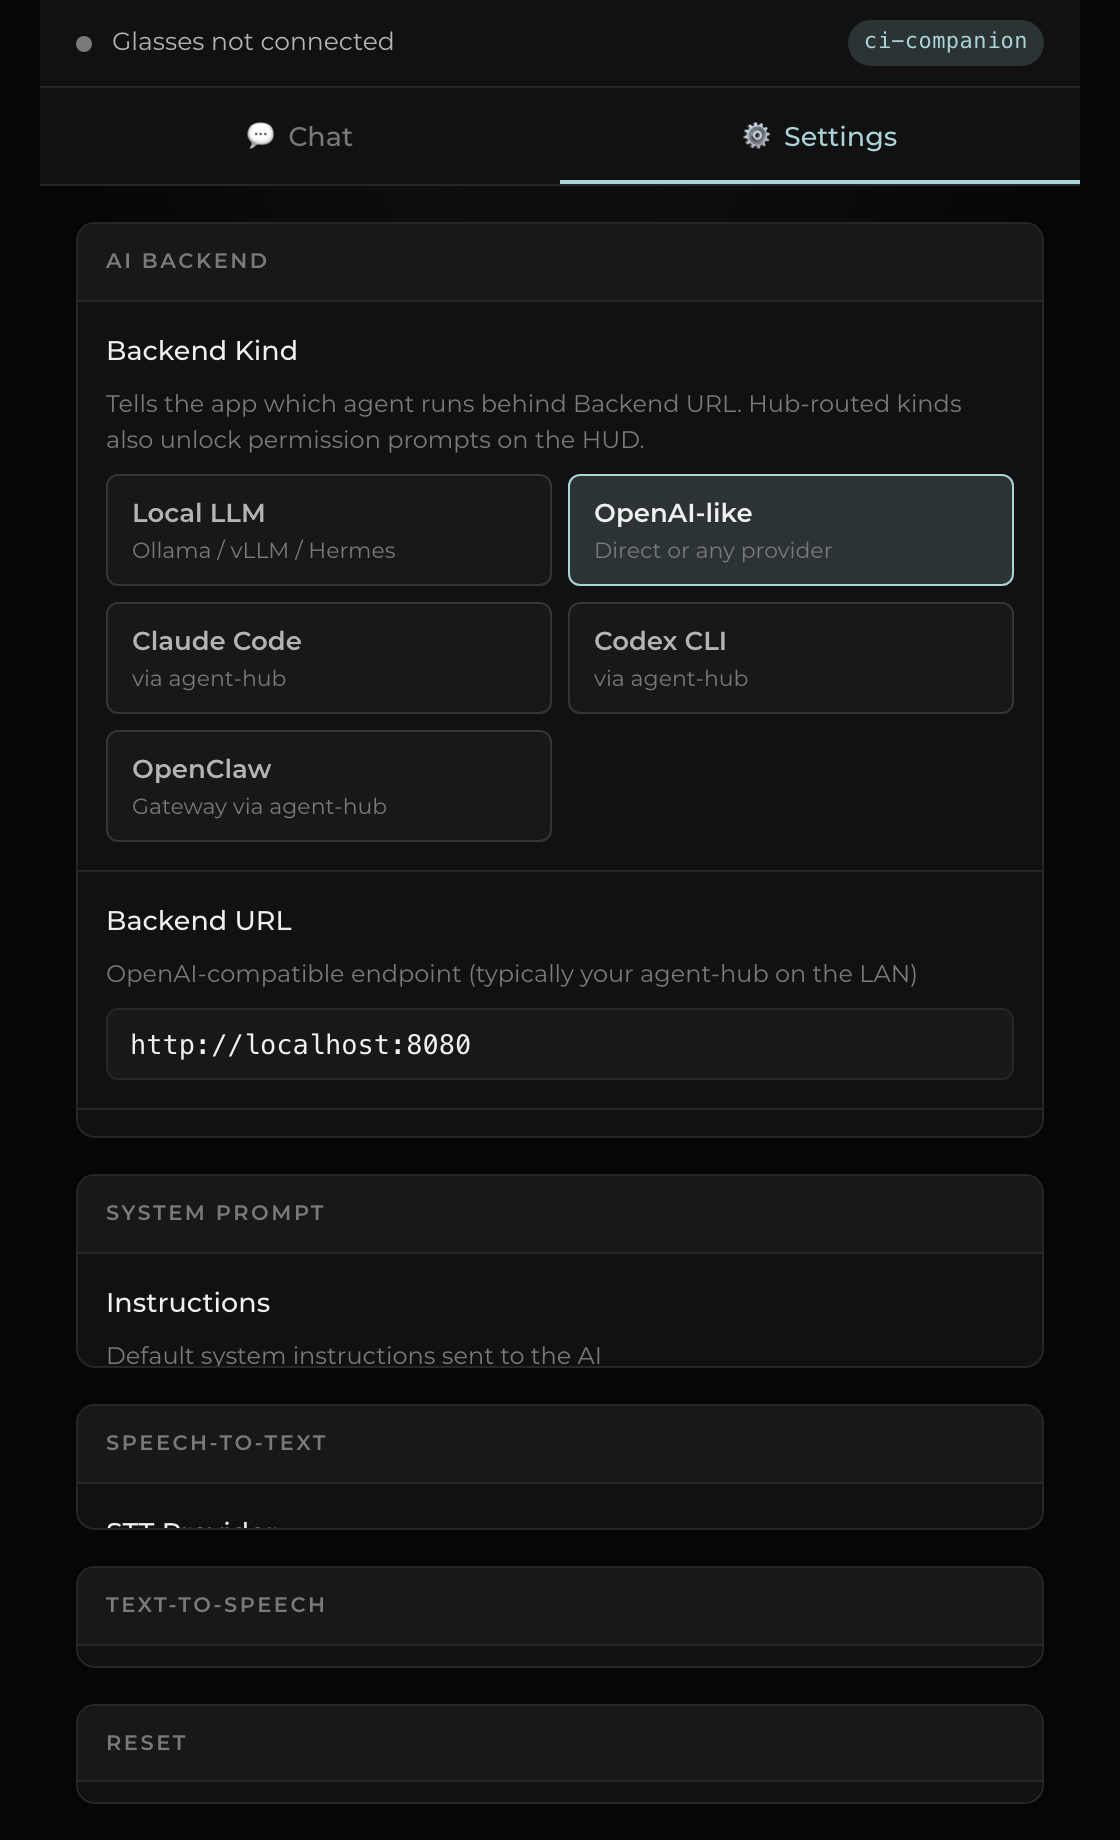
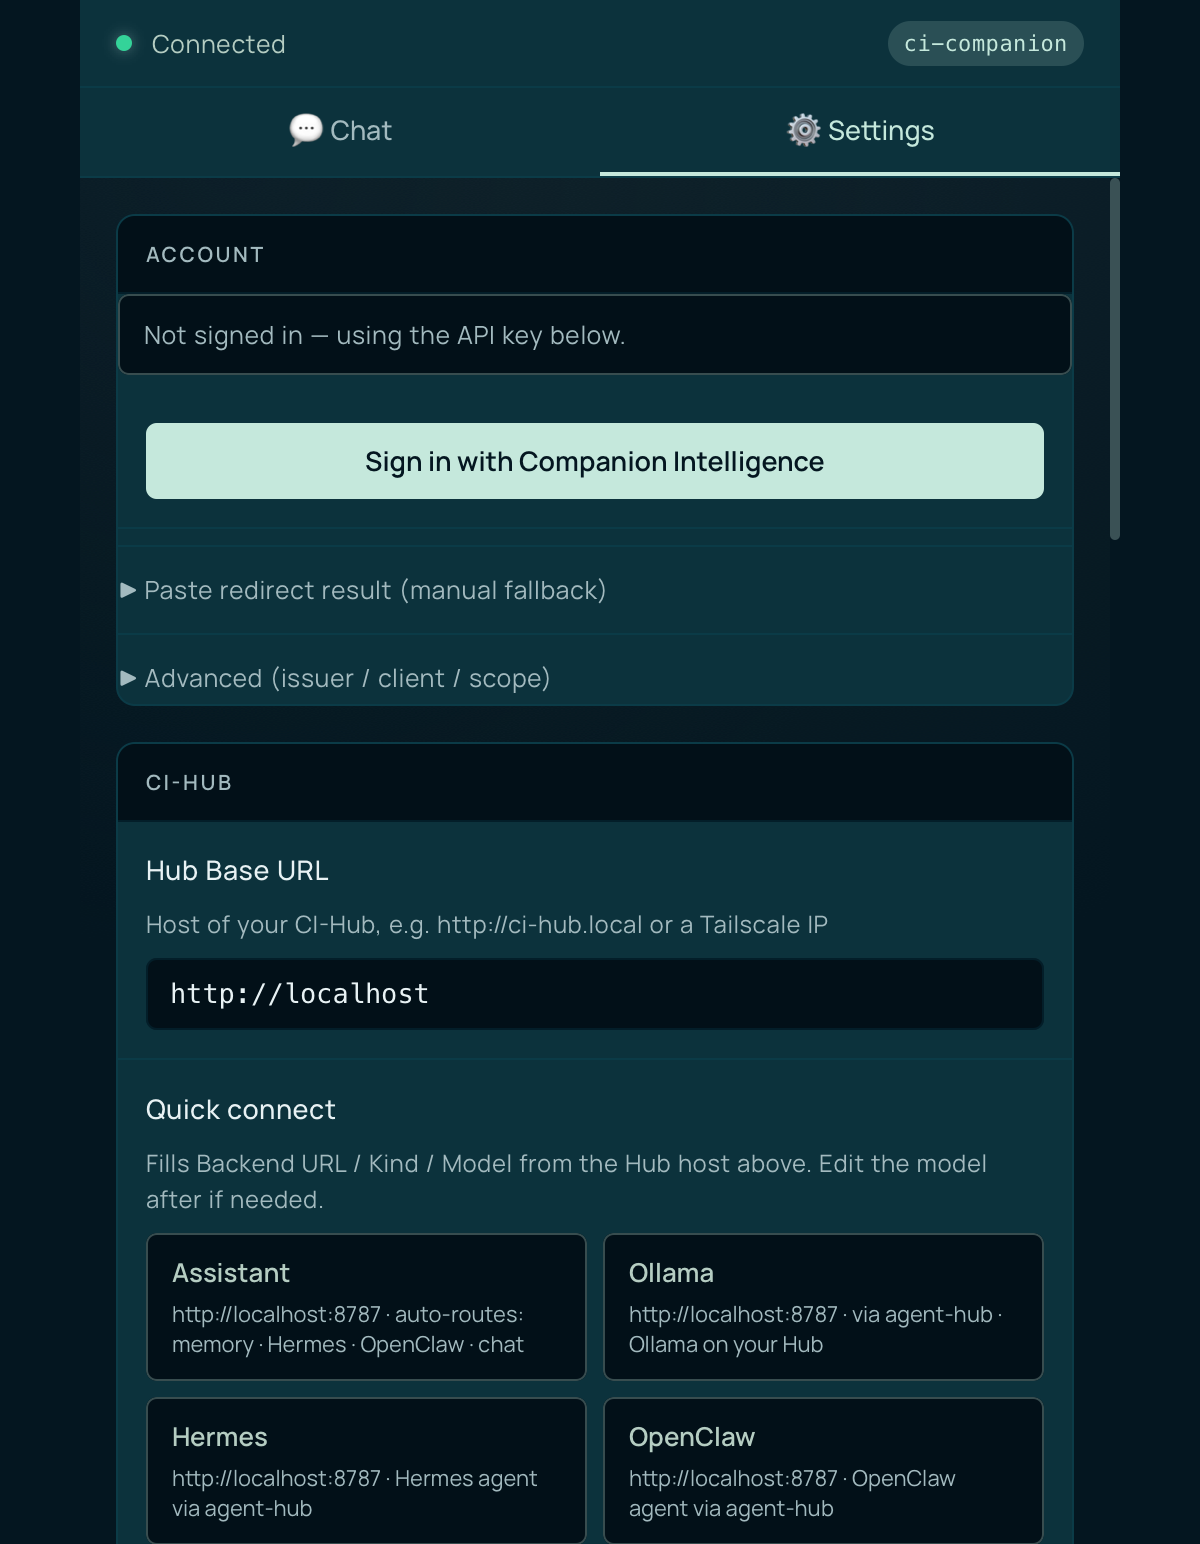
fix(er-connect): don't report a false "Unreachable" for plain-http hubs
The Connect step probes http://<host>:8787 from https://er.ci.computer, and
browsers refuse plain-http requests from an https page. Measured against the
live site with a server answering on every address: the same no-cors fetch
resolved from an http page and was rejected from er.ci.computer for a LAN IP,
127.0.0.1 and localhost alike. Non-loopback http hosts are no longer fetched;
the host is saved and the page says it cannot verify it from here and to use
Quick connect in the app. A loopback failure from an https page is treated
the same way; real failures (http page, https hub) still show as errors.

Also: Help gets a matching troubleshooting entry, the README documents an
end-to-end sign-in test and a failure table and no longer says the OIDC client
is unregistered (it is deployed), the bundled screenshots show the current
look, and the unreferenced near-black preview.png is removed.

diff --git a/er-connect/src/hub/connect.ts b/er-connect/src/hub/connect.ts
@@ -35,10 +35,43 @@ export function agentHubUrl(raw: string): string {
 export interface ProbeResult {
   ok: boolean;
   url: string;
+  /**
+   * True when a failure says nothing about the hub: the browser refuses (or gates)
+   * plain-http requests from an https page, so "couldn't fetch" ≠ "unreachable".
+   */
+  blocked?: boolean;
 }
 
-export async function probeHub(rawHost: string): Promise<ProbeResult> {
+const LOOPBACK = /^(localhost|127(\.\d{1,3}){3}|\[::1\])$/i;
+
+/** Is this a plain-http target being fetched from an https page? */
+export function isMixedContent(url: string, pageProtocol: string): boolean {
+  if (pageProtocol !== 'https:') return false;
+  try {
+    return new URL(url).protocol === 'http:';
+  } catch {
+    return false;
+  }
+}
+
+/**
+ * An agent-hub on a LAN / Tailscale / `.local` address is plain http on :8787, and browsers
+ * refuse plain-http requests from an https page (mixed content) — so from
+ * https://er.ci.computer "unreachable" and "reachable but forbidden" look identical.
+ * Measured 2026-09-28 against the live site with a server answering on every address: the
+ * same `fetch(..., {mode:'no-cors'})` resolved from an http page, and rejected from
+ * er.ci.computer for a LAN IP, 127.0.0.1 and localhost alike (loopback is exempt from
+ * mixed-content rules, but Chrome's Local Network Access gate can still deny it).
+ * So: non-loopback http is never fetched; loopback is tried and only a *success* is
+ * trusted. Everything else is reported as unverified, not as an error.
+ */
+export async function probeHub(
+  rawHost: string,
+  pageProtocol: string = window.location.protocol,
+): Promise<ProbeResult> {
   const url = agentHubUrl(rawHost);
+  const mixed = isMixedContent(url, pageProtocol);
+  if (mixed && !LOOPBACK.test(new URL(url).hostname)) return { ok: false, url, blocked: true };
   try {
     // no-cors: the response is opaque, but a resolved fetch means the host
     // answered — a network-level failure (unreachable host, DNS, refused
@@ -46,6 +79,6 @@ export async function probeHub(rawHost: string): Promise<ProbeResult> {
     await fetch(url, { mode: 'no-cors' });
     return { ok: true, url };
   } catch {
-    return { ok: false, url };
+    return { ok: false, url, blocked: mixed };
   }
 }

diff --git a/er-connect/src/components/HelpDialog.tsx b/er-connect/src/components/HelpDialog.tsx
@@ -175,6 +175,16 @@ export function HelpDialog({ open, onOpenChange }: HelpDialogProps) {
                     the next send.
                   </AccordionContent>
                 </AccordionItem>
+                <AccordionItem value="cant-verify">
+                  <AccordionTrigger>Connect says "Saved… can't test a plain-http host"</AccordionTrigger>
+                  <AccordionContent>
+                    That's expected, not an error. Your hub's <code>agent-hub</code> is plain{' '}
+                    <code>http://host:8787</code>, and browsers won't make plain-http requests
+                    from an https page, so this page can't check it. The host is saved — open CI
+                    Companion in the Even app, go to Settings → CI-Hub, and tap a Quick connect
+                    preset to verify the connection for real.
+                  </AccordionContent>
+                </AccordionItem>
                 <AccordionItem value="stuck">
                   <AccordionTrigger>Still stuck?</AccordionTrigger>
                   <AccordionContent>

diff --git a/er-connect/src/auth/useConnect.ts b/er-connect/src/auth/useConnect.ts
@@ -12,7 +12,8 @@ import {
 } from './oidc';
 import { HUB_URL_KEY, probeHub } from '../hub/connect';
 
-export type ConnectStatus = 'idle' | 'checking' | 'ok' | 'error';
+/** `unverified` = saved, but this browser can't test the host from an https page. */
+export type ConnectStatus = 'idle' | 'checking' | 'ok' | 'unverified' | 'error';
 
 export interface ConnectState {
   booting: boolean;
@@ -49,6 +50,14 @@ export function useConnect(): ConnectState {
     setConnectStatus('checking');
     setConnectMessage('Connecting…');
     probeHub(raw).then((result) => {
+      if (result.blocked) {
+        setConnectStatus('unverified');
+        setConnectMessage(
+          `Saved ${result.url}. Browsers can't test a plain-http host from this page — that's expected. ` +
+            'Open CI Companion in the Even app and tap Quick connect to finish.',
+        );
+        return;
+      }
       setConnectStatus(result.ok ? 'ok' : 'error');
       setConnectMessage(result.ok ? `Connected: ${result.url}` : `Unreachable: ${result.url}`);
     });

diff --git a/er-connect/README.md b/er-connect/README.md
@@ -128,14 +128,63 @@ starting a new session would let Claude run `npm run build && wrangler
 deploy` (or call the API directly) without a human in the loop for future
 redeploys.
 
-## Prerequisite: register the OIDC client
+## OIDC client (registered)
 
-`src/auth/oidc.ts` uses `client_id: 'ci-er-connect'`. CI-Portal's
-`PUBLIC_CLIENTS` registry needs an entry for it with `redirect_uri` set to
-this app's deployed URL (`https://er.ci.computer/`) — that's a CI-Portal-side
-change, not something this repo can do on its own. Until it's registered,
-sign-in will fail at the authorize step with an invalid-client error from
-the IdP.
+`src/auth/oidc.ts` uses `client_id: 'ci-er-connect'`. It is registered in CI-Portal
+(`oidcClients.ts` → `PUBLIC_CLIENTS`, name "CI Companion — Setup & Connect") and
+is deployed to staging and production. Because this client has exactly one
+redirect, CI-Portal pins it in `FIXED_PUBLIC_REDIRECTS`
+(`firstPartyRedirect.ts`): the only accepted `redirect_uri` is
+**`https://er.ci.computer/`** — trailing slash included. Consent is still shown
+on first sign-in. If you ever serve er-connect from another origin (a preview
+URL, a new domain), sign-in there will be rejected until CI-Portal's list is
+extended; that is deliberate.
+
+## Test sign-in end to end
+
+Run this after every er-connect deploy, and after any CI-Portal promotion that
+touches auth. It takes about two minutes and needs a CI-Portal account. Use a
+normal browser window (not a private window if you want step 7 to work).
+
+1. **Open <https://er.ci.computer>.** You should see the CI Companion header and
+   a three-step Stepper (Install → Connect → Talk). Open **Help** (top right):
+   the tabbed dialog should open and close cleanly.
+2. **Go to step 2, Connect.** Under *Sign in* you should see the button
+   **Sign in with Companion Intelligence** and no red error text.
+3. **Click it.** The browser leaves er.ci.computer for
+   `https://hub.ci.computer/…` and lands on the CI-Portal **login** page. The
+   address bar should carry `client_id=ci-er-connect` and
+   `redirect_uri=https://er.ci.computer/`.
+4. **Log in**, then approve the **consent** screen (first time only). You are
+   sent back to `https://er.ci.computer/?code=…&state=…`; the page exchanges the
+   code and strips the query string from the address bar.
+5. **Check the result.** A green pill with your name (or "Signed in") appears
+   beside the *Sign in* label, and the button becomes **Sign out**. In DevTools → Application →
+   Local Storage → `https://er.ci.computer` there is an
+   `er-connect:oidc-tokens` entry.
+6. **Enter your Hub host** (for example `ci-hub.local` or `192.168.1.50`) and
+   click **Connect**. Expect the **Saved … Browsers can't test a plain-http
+   host from this page** note, *not* a green "Connected" and not a red
+   "Unreachable". This is expected: an agent-hub is plain `http://<host>:8787`
+   and browsers refuse plain-http requests from an https page (mixed content),
+   so er.ci.computer cannot check it. A hub served over `https://` gets a real
+   green/red result. The host is remembered either way.
+7. **Reload the page.** You should stay signed in and, with a remembered host,
+   see the same Connect result again with no clicks — that is the auto-reconnect.
+   Click **Sign out** and reload: back to the **Sign in with Companion Intelligence** button.
+
+Then finish on the phone: open **CI Companion** in the Even app → Settings →
+CI-Hub, enter the same host, and tap a **Quick connect** preset. That is where
+the connection is actually verified end to end.
+
+### If it fails
+
+| You see | Meaning / fix |
+|---|---|
+| Error text under the sign-in button, or a Portal page saying invalid client / invalid redirect | The client or redirect isn't registered on the Portal environment you hit. Check `PUBLIC_CLIENTS` and `FIXED_PUBLIC_REDIRECTS` in CI-Portal, and that the page is served from exactly `https://er.ci.computer/`. **Reaching the login page proves nothing** — an unauthenticated `/oauth2/authorize` redirects to `/login` for *any* client id or redirect (checked 2026-09-28 with a made-up client), so registration errors only appear after you log in. |
+| Bounced back to er.ci.computer but still signed out, with an error | The code exchange failed. Open DevTools → Network and look at the `…/oauth2/token` request: `invalid_grant` usually means the tab was reloaded mid-flow (the PKCE verifier is per-tab, in `sessionStorage`) — just start again. |
+| Signed out on every reload | Storage is blocked or the window is private. `localStorage` must be writable for `https://er.ci.computer`. |
+| Red "Unreachable" on an `https://` hub | A real network failure — the host, port 8787, DNS, or a certificate. Test `curl -I https://<host>:8787` from the same machine. |
 
 ## Files
 
@@ -143,5 +192,5 @@ the IdP.
 - `src/components/HelpDialog.tsx` — the tabbed help modal (how it works, screenshots, manual config, backends, troubleshooting).
 - `src/auth/` — `pkce.ts` (RFC 7636 helpers), `oidc.ts` (the CI-Portal Authorization Code + PKCE flow, mirrors `ci-glasses-app/src/auth/OidcClient.ts`), `useConnect.ts` (the React hook wiring sign-in + Hub-connect lifecycle together, including auto-reconnect on boot).
 - `src/hub/connect.ts` — CI-Hub host normalization and the `agent-hub` reachability probe, mirrors `ci-glasses-app/src/config/HubPresets.ts`.
-- `public/` — favicon, screenshots (from `docs/ui/`), and `_headers` — copied into `dist/` verbatim on build.
+- `public/` — favicon, screenshots (copies of `ci-glasses-app/assets/screenshots/01-empty-quick-actions.png` and `03-settings.png` — refresh them whenever the app's look changes), and `_headers` — copied into `dist/` verbatim on build.
 - `wrangler.jsonc` — the Worker config: name (`ci-er-connect`), `dist/` as the assets directory, and the `er.ci.computer` custom-domain route.
